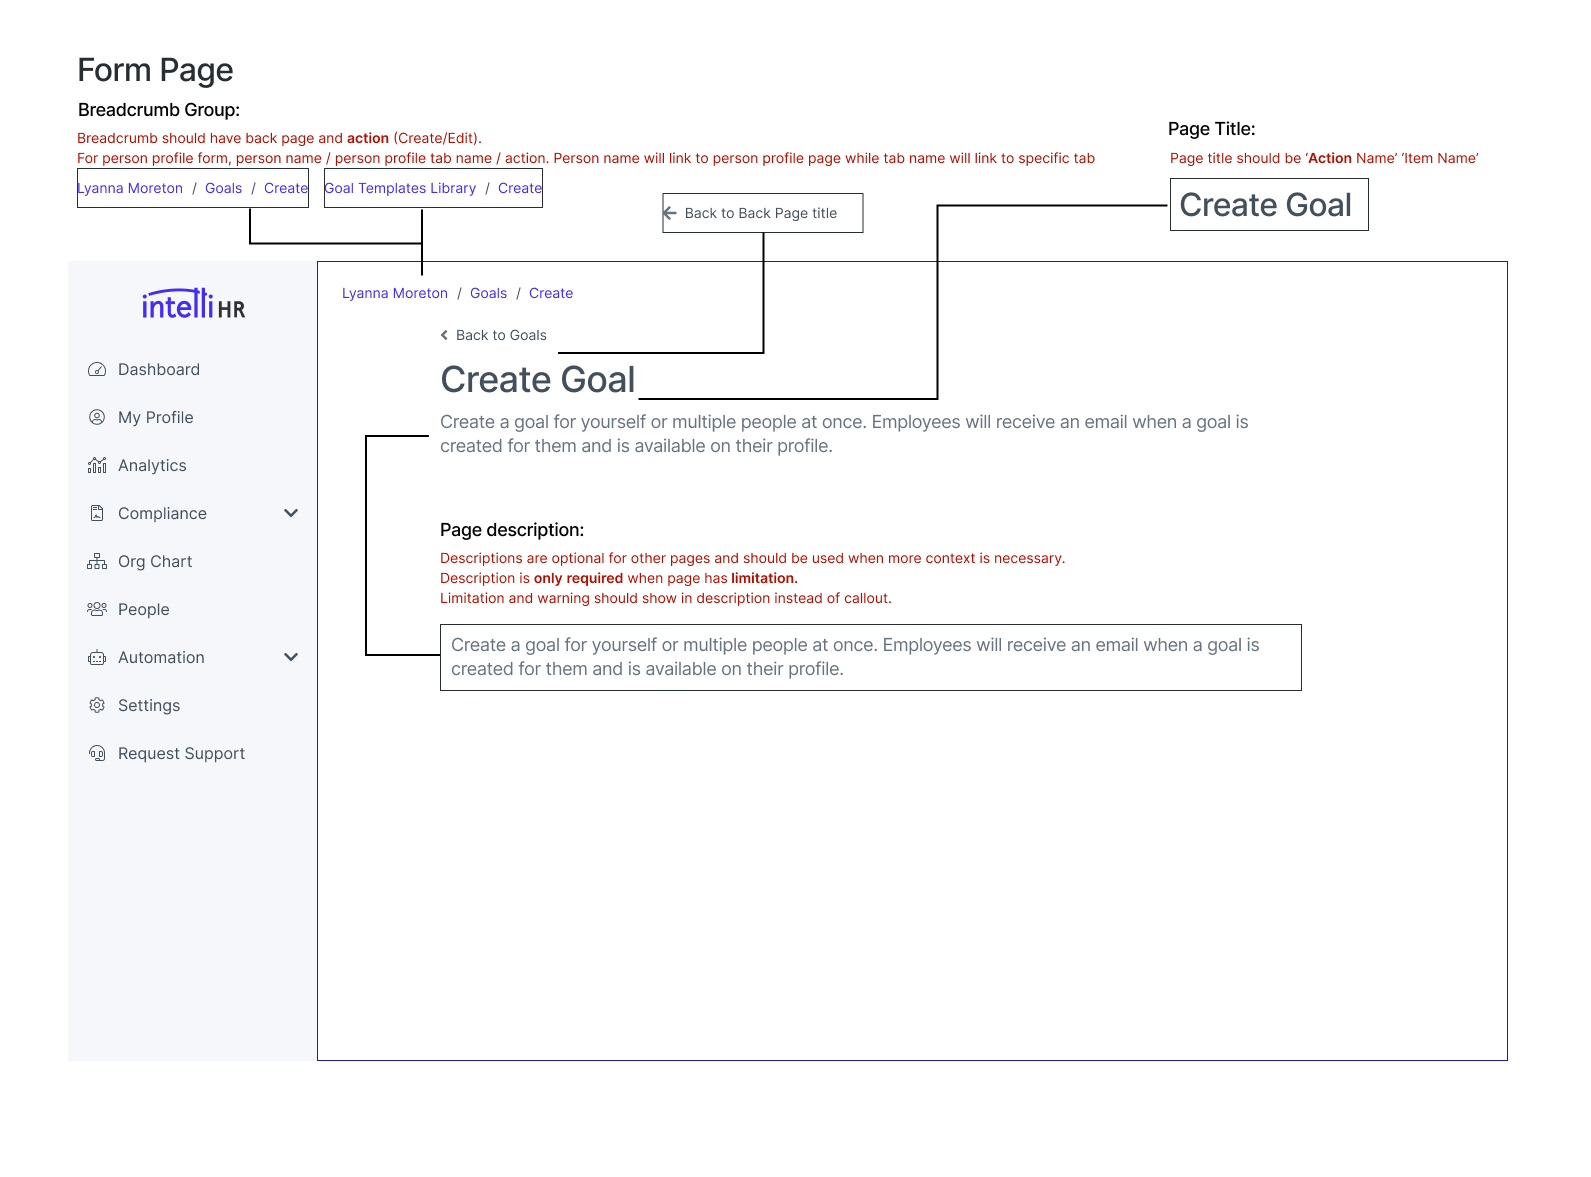
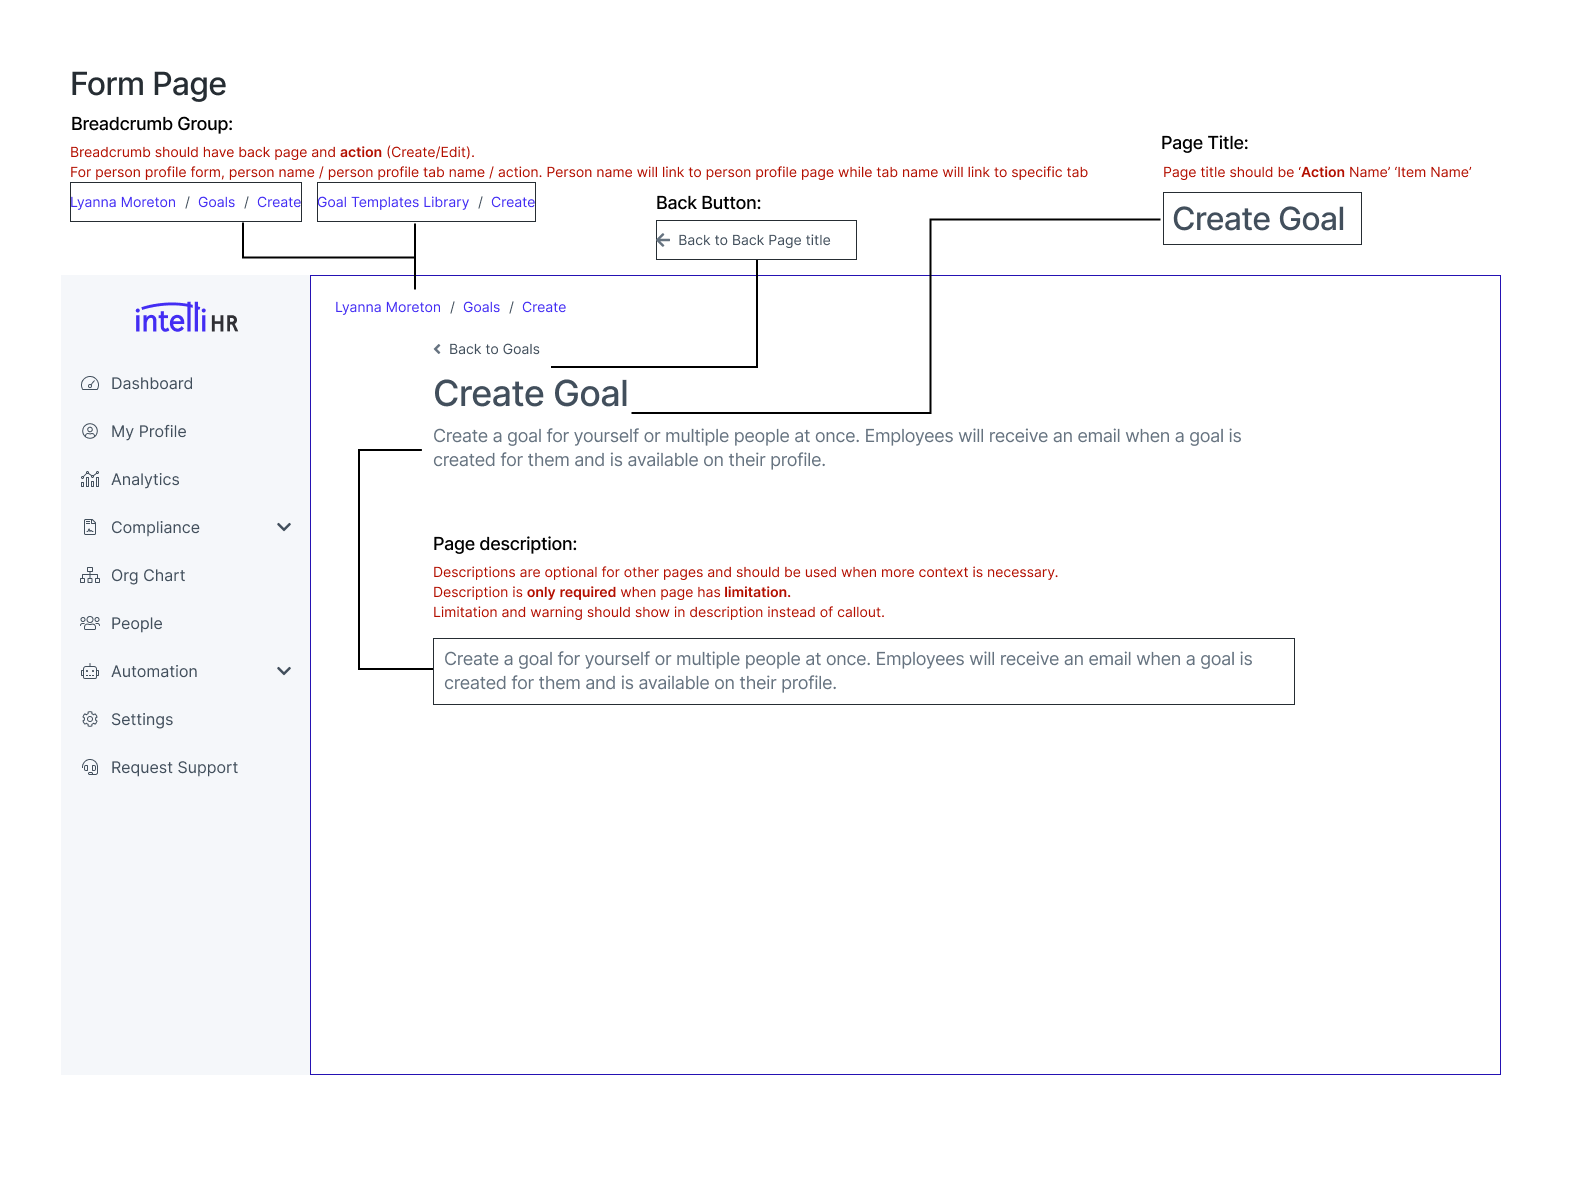
update page doc as Content Page and Form Page
INT-13999

diff --git a/styleguide.config.js b/styleguide.config.js
@@ -61,8 +61,12 @@ module.exports = {
       sectionDepth: 2,
       sections: [
         {
-          name: 'Page',
-          content: 'docs/page.md'
+          name: 'Content Page',
+          content: 'docs/ContentPage.md'
+        },
+        {
+          name: 'Form Page',
+          content: 'docs/FormPage.md'
         }
       ]
     },

diff --git a/docs/ContentPage.md b/docs/ContentPage.md
@@ -1,0 +1,68 @@
+Settings pages or feature pages are considered as content page
+
+Content page should use `Page` with `content` as `layoutType`
+
+![page layout type](./image/Page.png)
+![content page](./image/ContentPage.png)
+
+### Breadcrumb Group
+All pages should have **Breadcrumb Group** and it should have **back page title** when there is something to go back to
+- All labels are in **Title Case**
+- It should be the **Back Page Title/ Page title** for most case
+- For archive list, it should be a extra page for archived list and its breadcrumb group is Goal Template Library / Archive
+
+### Back Button
+All pages should have `backButtonProps` on Page component for **Back Button** when there is something to go back to
+- All labels are in **Title Case**
+- It should be the **back page title** when it existed
+
+### Page Title
+Page title naming would be a domain decision. It may have more standard in future.
+
+### Page Description
+A description is **required for all settings/ feature front pages** to provide context for **how/why/where** these settings are used and any **limitations** of the feature.
+
+
+### Page Action
+Use `Inline` for page action and pass into `titleAction` on Page component for page action
+```jsx
+import { FontAwesomeIcon } from '@Domain/Icons';
+import { TooltipPopover } from '@Domain/Popovers';
+import { LinkButton } from '@Domain/Buttons';
+import { Inline } from '@Domain/Layouts';
+
+<Inline align='left'>
+ <TooltipPopover
+     variant={TooltipPopover.Variant.Dark}
+     toggleComponent={({ openMenu, closeMenu, toggleComponentRef, ariaProps }) => (
+       <div
+         onMouseEnter={openMenu}
+         onMouseLeave={closeMenu}
+         ref={toggleComponentRef}
+         {...ariaProps}
+       >
+         <LinkButton>
+           <FontAwesomeIcon size='small' type='solid' icon='archive' />
+         </LinkButton>
+       </div>
+     )}
+   >
+     View Achieve
+  </TooltipPopover>
+ <Inline.Item fill>
+   <LinkButton fullWidth type='primary'>
+     Create Template
+   </LinkButton>
+ </Inline.Item>
+</Inline>
+```
+
+- A page may only have 1 primary action button.  Primary action sits at the right top corner with primary button style (no icon).
+- Other actions are displayed in icon with a dark style tooltip popver. Most common used actions goes first from right to left.
+- If no icon fits the use case, use default button instead. Text on page action buttons should be limited to one line on mobile view.
+
+Page Action For mobile:
+- Actions should be on **one line**. 
+- Primary action should be **larger** than other actions. If not, it should split it on next line.
+
+![page action for mobile](./image/PageActionForMobile.png)

diff --git a/docs/FormPage.md b/docs/FormPage.md
@@ -1,0 +1,25 @@
+Pages with form or forms (wizard) are considered as form page
+
+Form page should use `Page` with `form` as `layoutType`
+
+![page layout type](./image/Page.png)
+![form page](./image/FormPage.png)
+
+### Breadcrumb Group
+All pages should have **Breadcrumb Group**
+- All labels are in **Title Case**
+- Breadcrumb should have back page and **action** (e.g. Create, Edit). 
+- For person profile form, person name / person profile tab name / action. Person name will link to person profile page while tab name will link to specific tab
+
+### Back Button
+All pages should have `backButtonProps` on Page component for **Back Button** 
+- All labels are in **Title Case**
+- It should be the **back page title**
+
+### Page Title
+Page title should be ‘**Action** Name’ ‘Item Name’
+
+### Page Description
+Descriptions are optional for other pages and should be used when more context is necessary.
+- Description is **only required when page has limitation**. 
+- **Limitation and warning should show in description** instead of callout.
